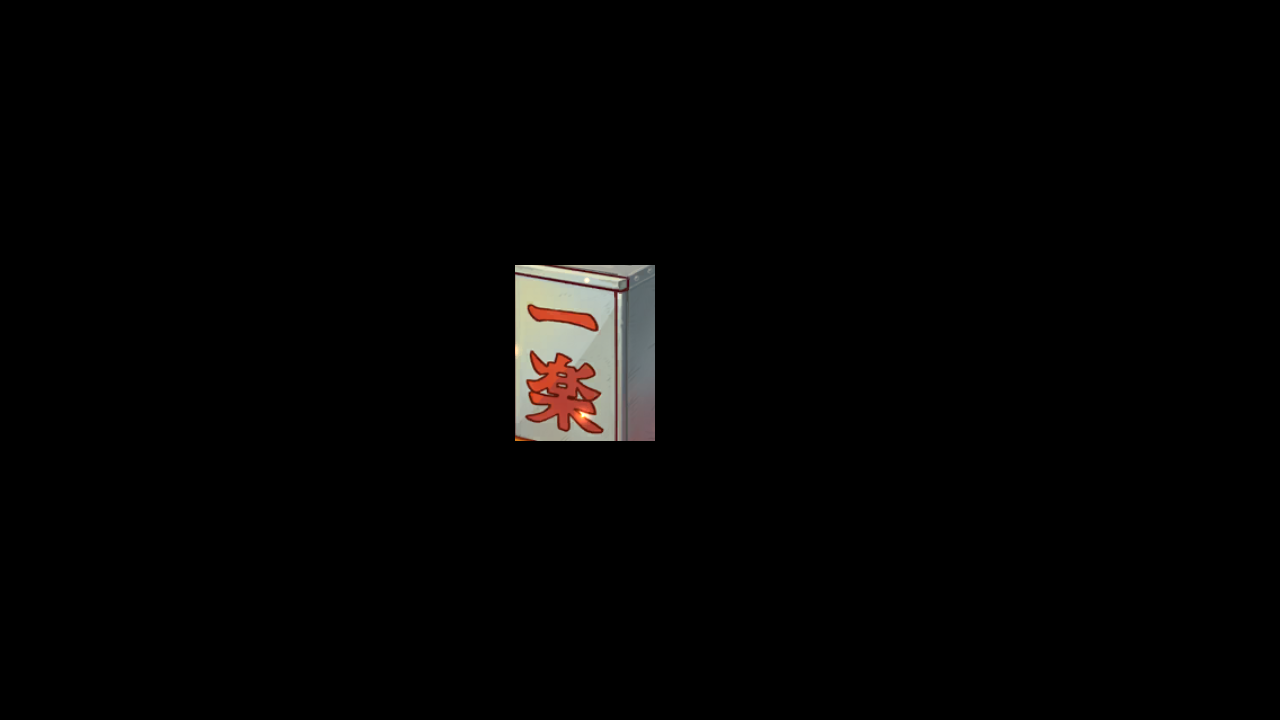
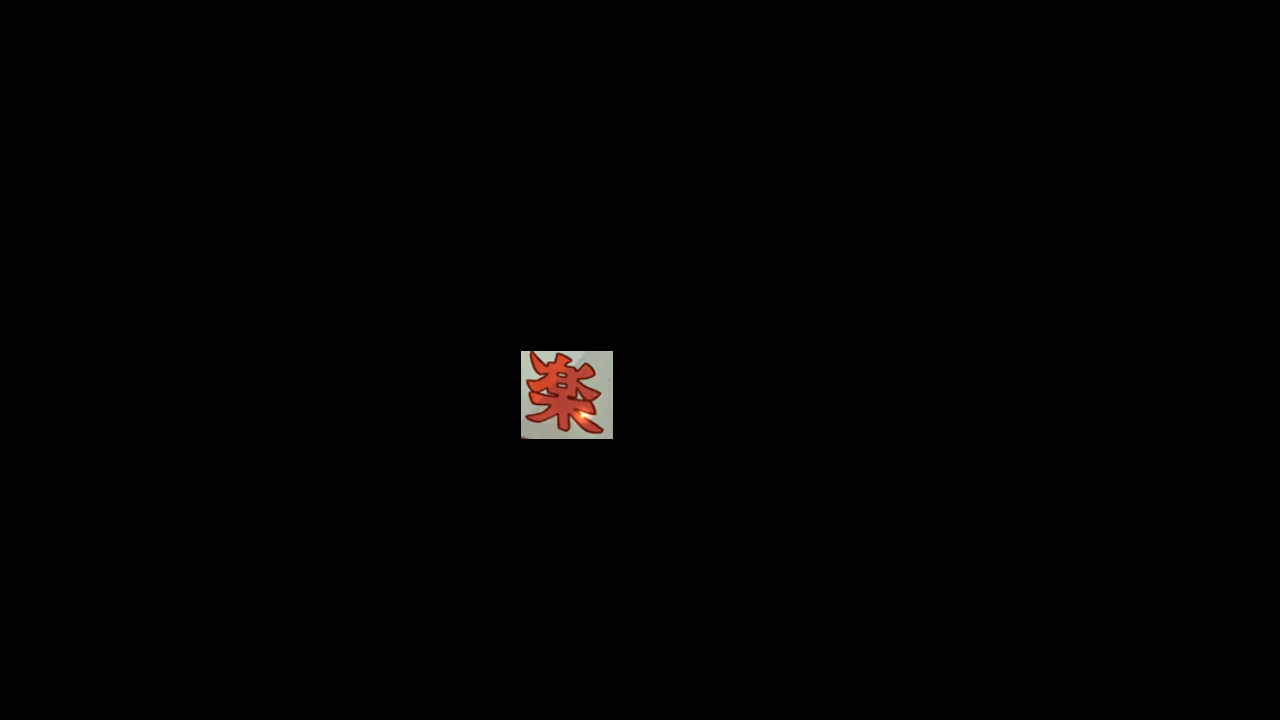
fix(freebies): update RAMEN_CLAIM button coordinates and color values

Changed region(s): [[0.375, 0.3667, 0.5312, 0.6111]]

diff --git a/tasks/freebies/assets/assets_freebies_yi_le_la_mian.py b/tasks/freebies/assets/assets_freebies_yi_le_la_mian.py
@@ -15,10 +15,10 @@ RAMEN_CLAIM = ButtonWrapper(
         ),
         Button(
             file='./assets/cn/freebies/yi_le_la_mian/RAMEN_CLAIM.2.png',
-            area=(515, 265, 655, 441),
-            search=(495, 245, 675, 461),
-            color=(157, 137, 124),
-            button=(515, 265, 655, 441),
+            area=(521, 351, 613, 439),
+            search=(501, 331, 633, 459),
+            color=(168, 120, 103),
+            button=(521, 351, 613, 439),
         ),
         Button(
             file='./assets/cn/freebies/yi_le_la_mian/RAMEN_CLAIM.3.png',
